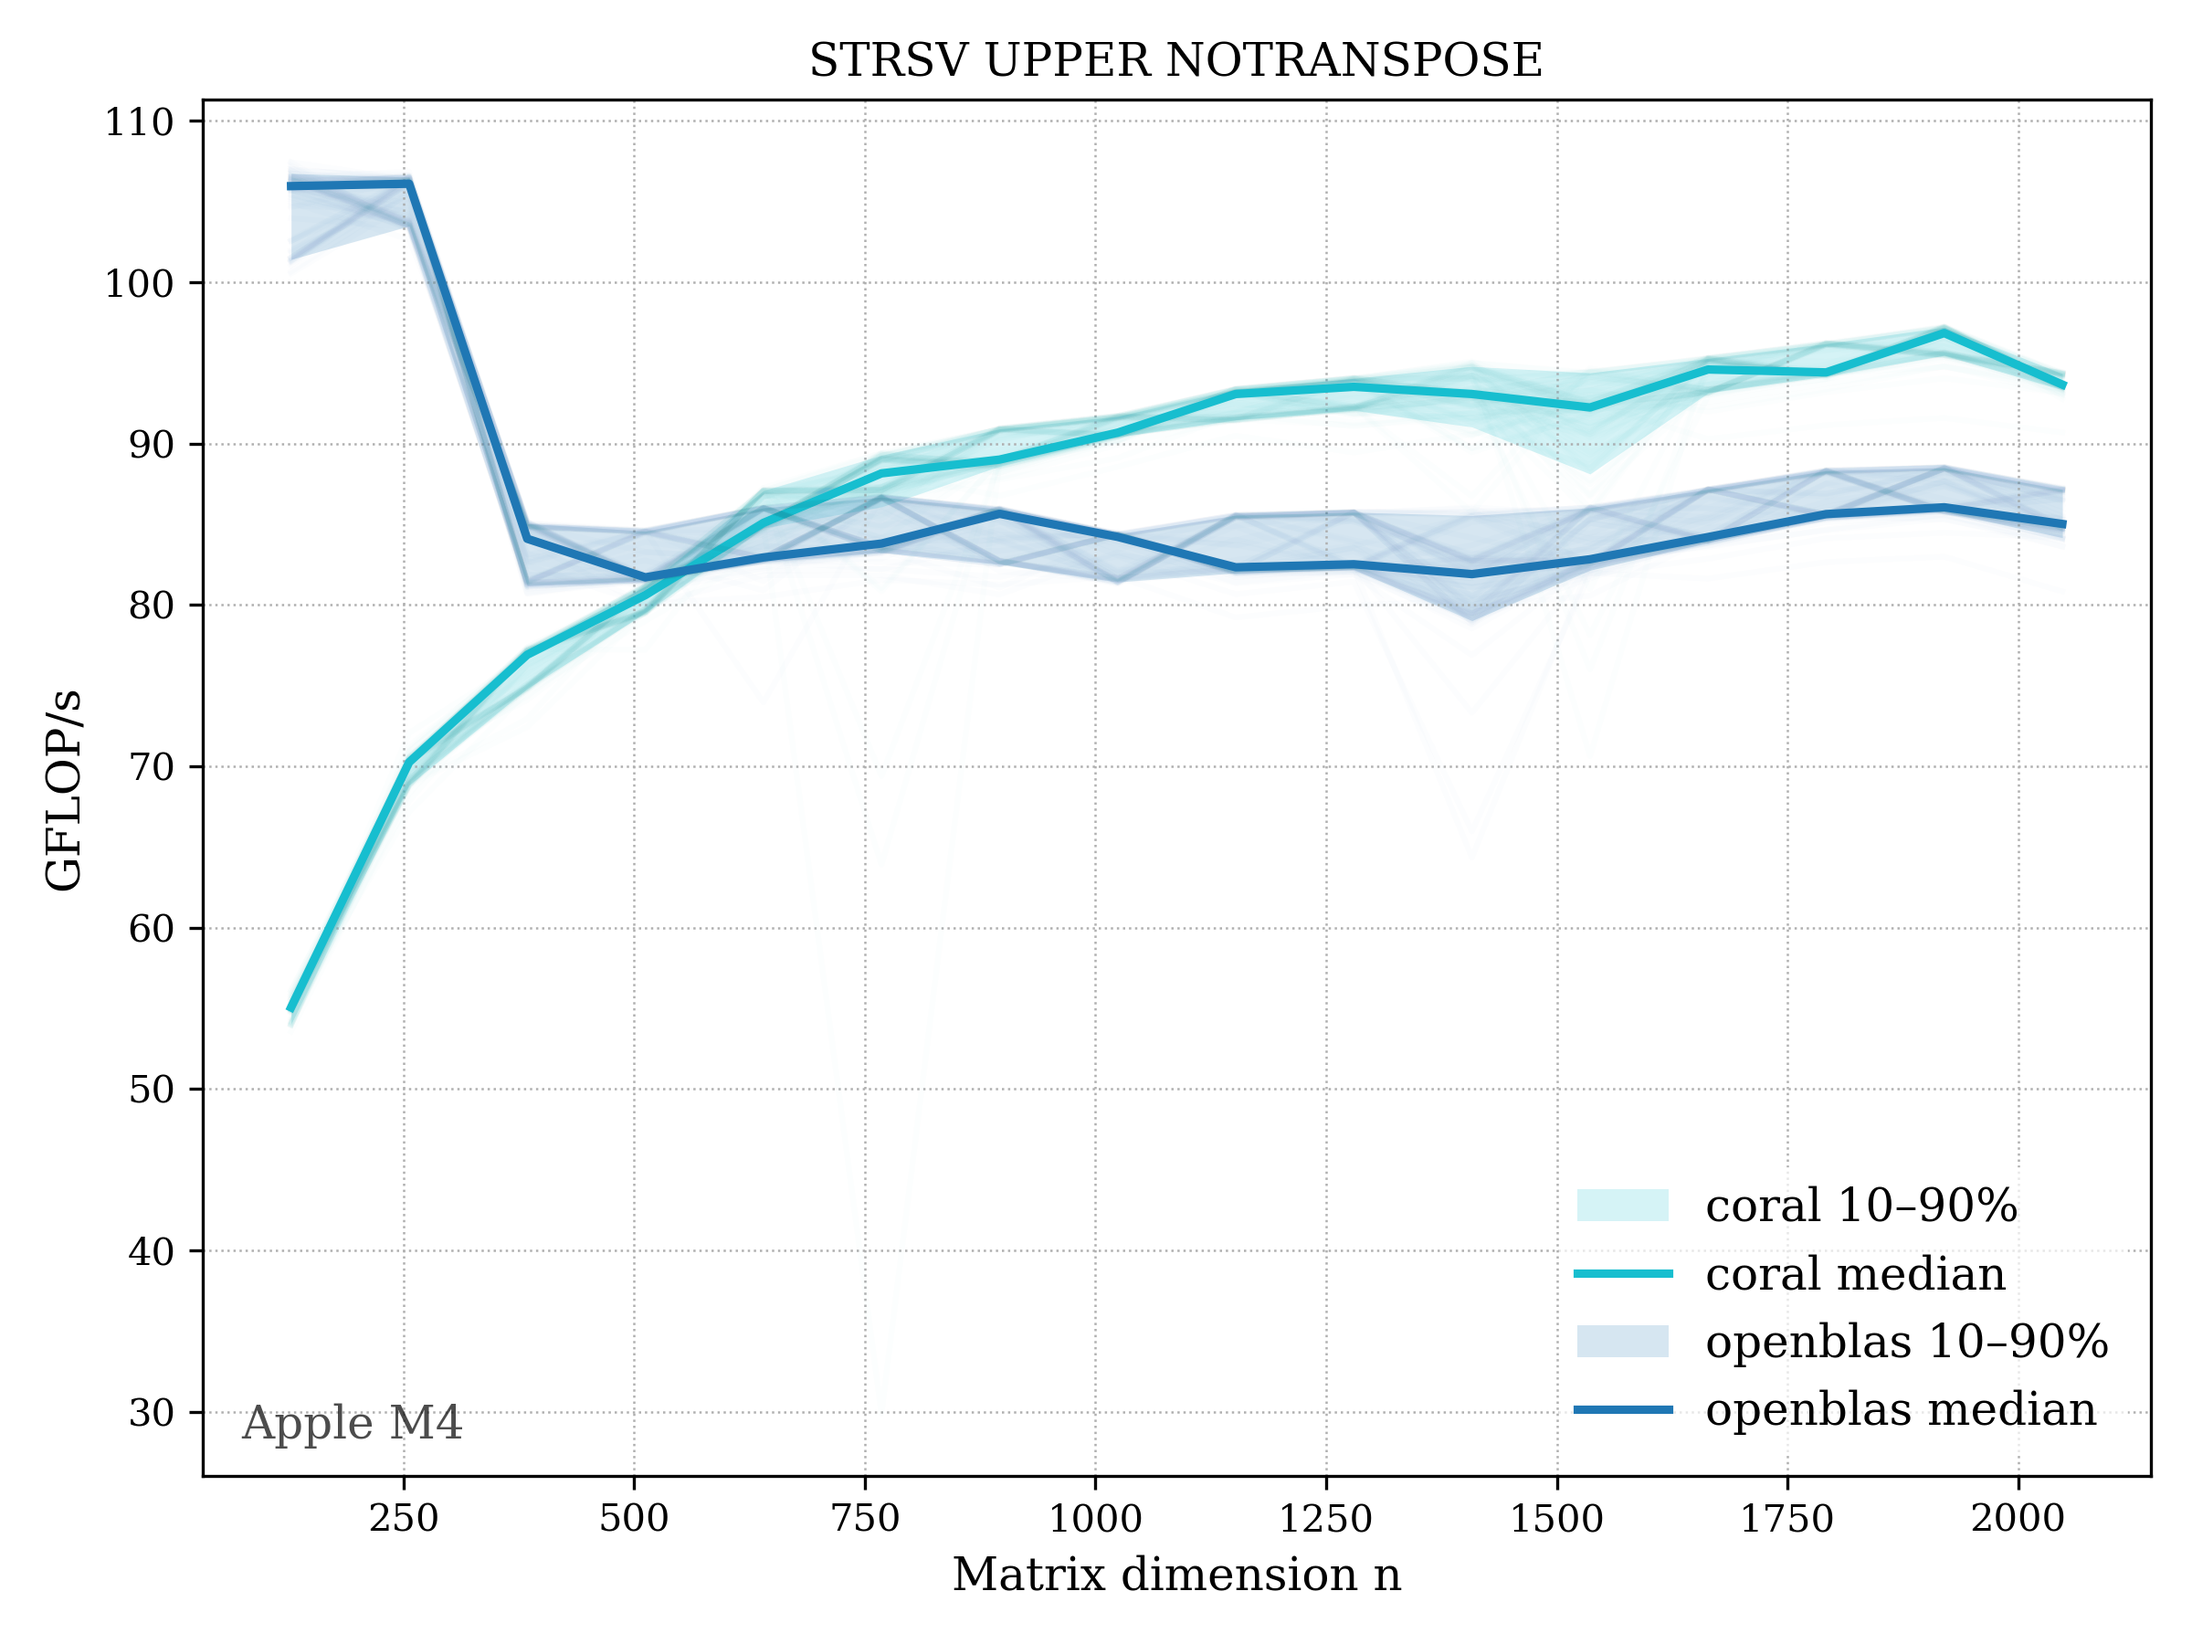
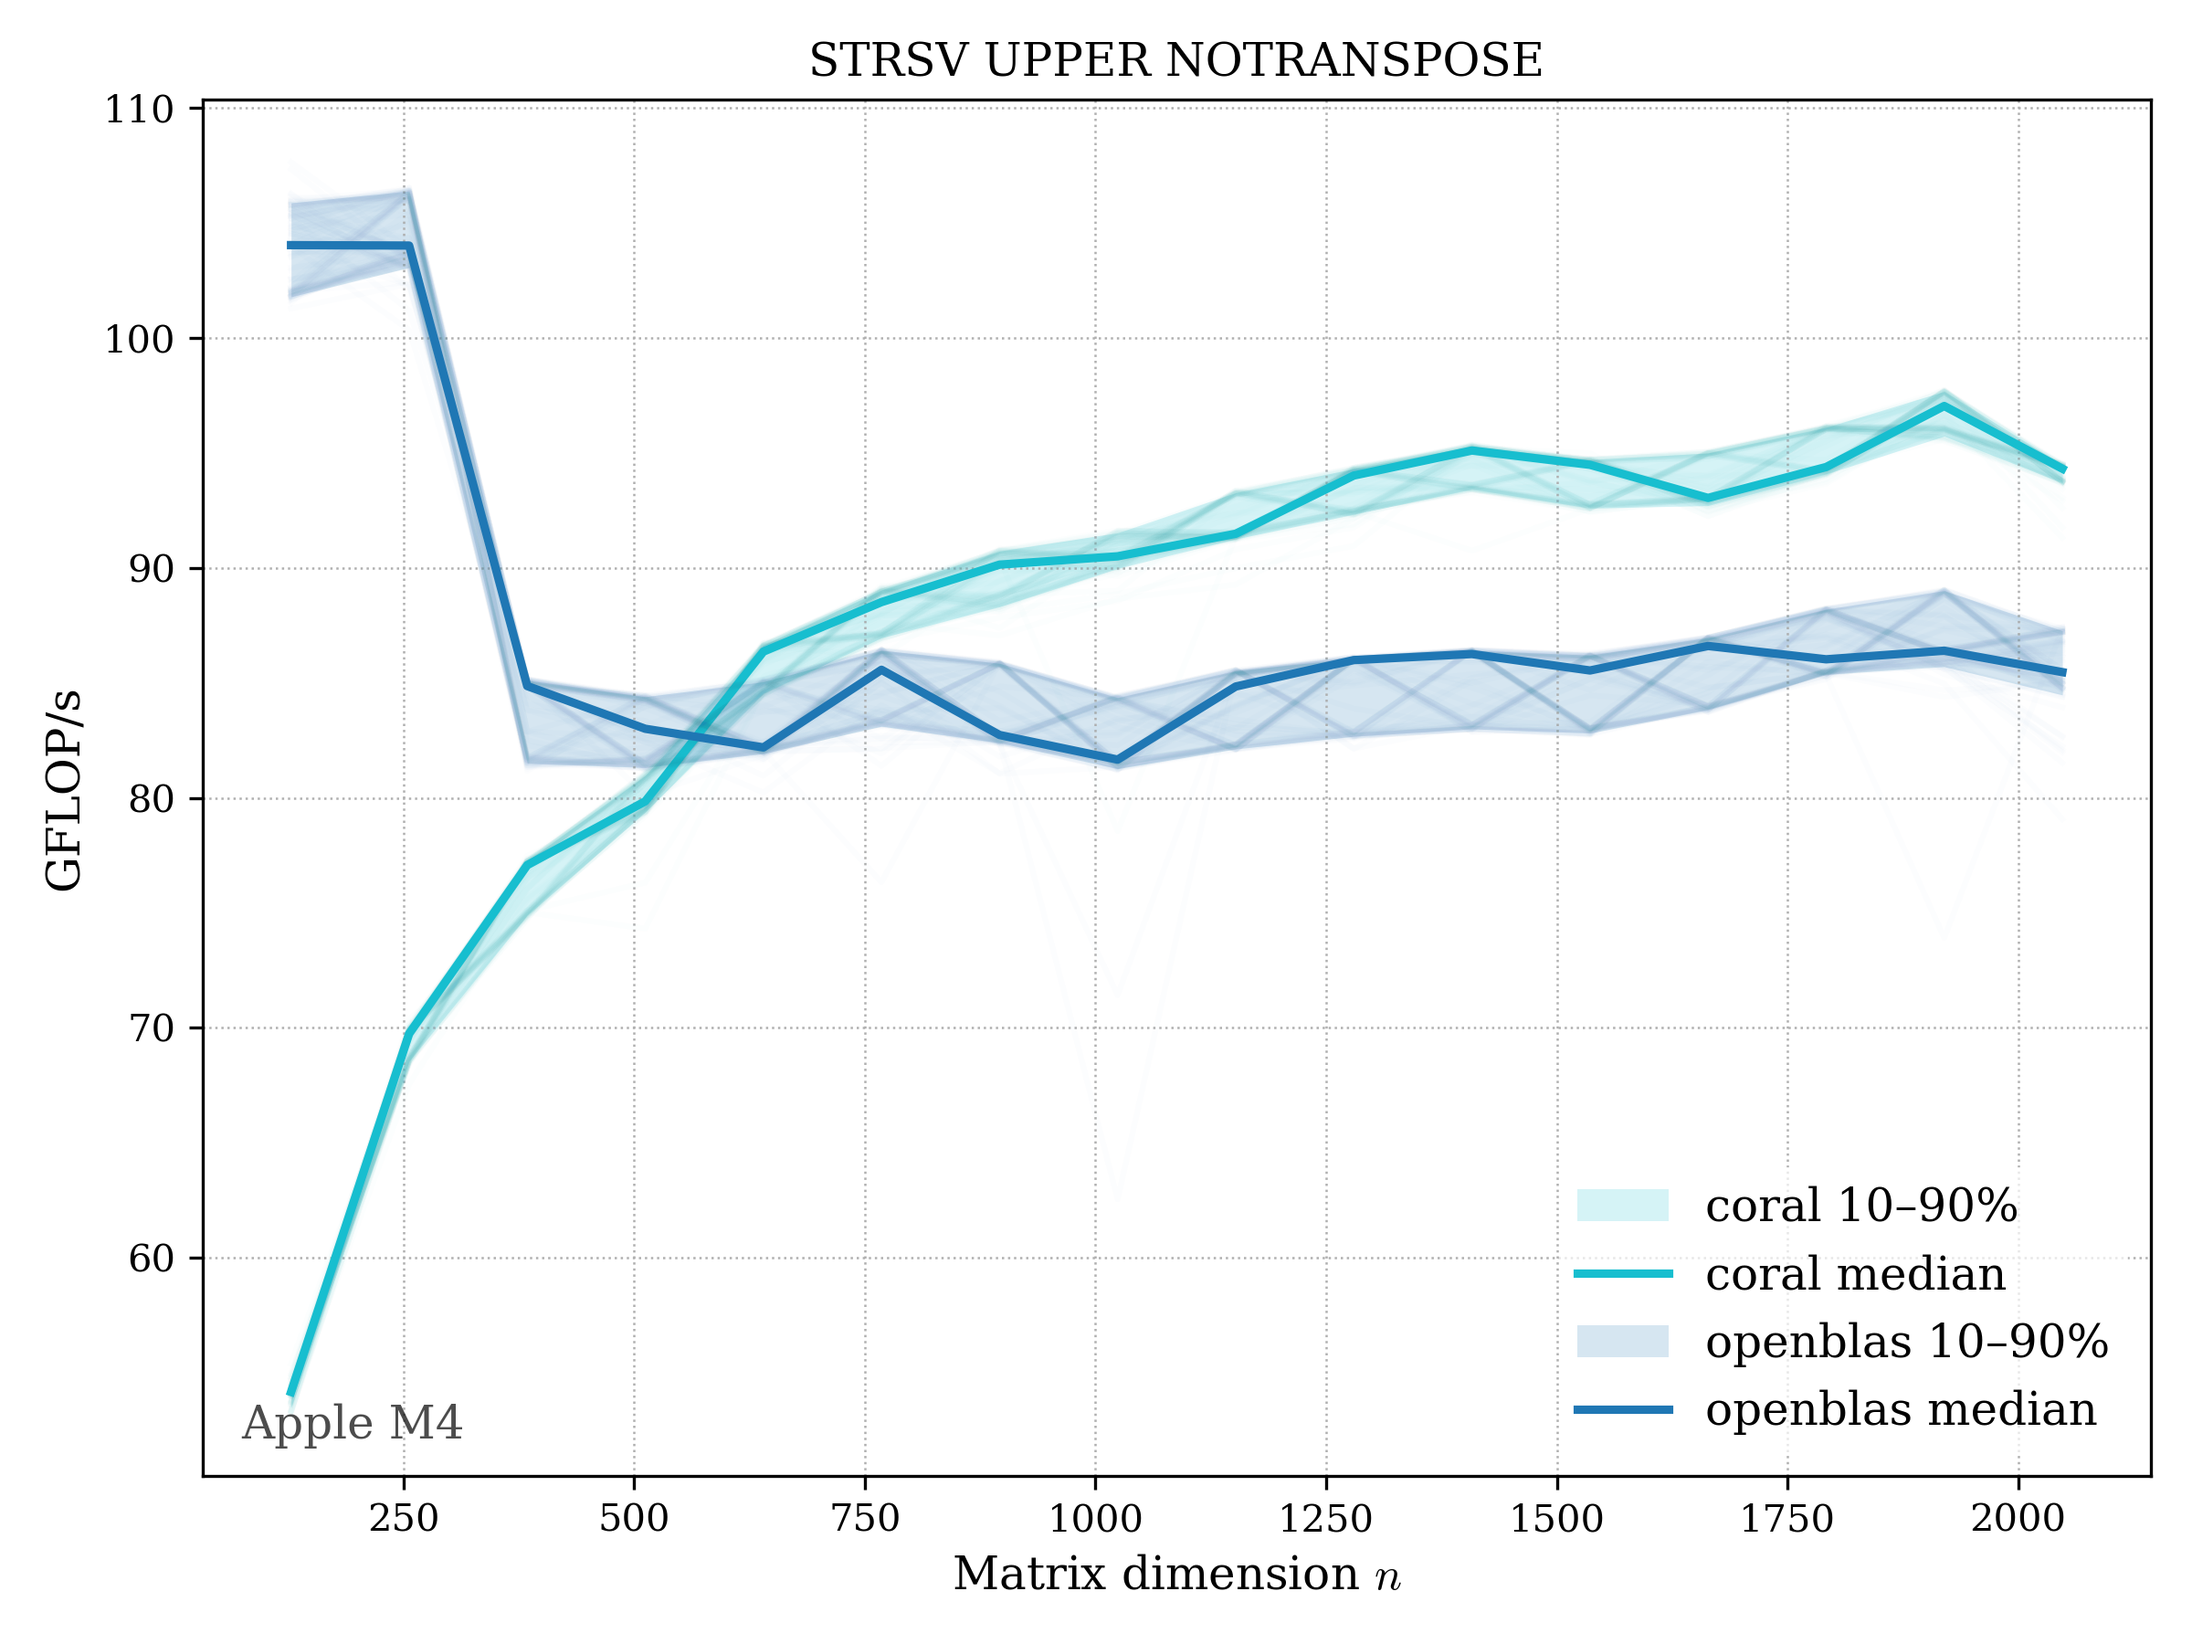
update microbench plots

diff --git a/benches/level2_strsv.rs b/benches/level2_strsv.rs
@@ -1,5 +1,5 @@
-use blas_src as _; 
-use criterion::{criterion_group, criterion_main, BatchSize, Criterion, black_box};
+use blas_src as _;
+use criterion::{criterion_group, criterion_main, BatchSize, Criterion, black_box, BenchmarkId};
 
 use coral::level2::{
     enums::{CoralTriangular, CoralTranspose, CoralDiagonal},
@@ -18,7 +18,6 @@ pub fn bench_strsv(c: &mut Criterion) {
     let n:   usize = 1024;
     let lda: usize = n + 8;
 
-    // upper-triangular with diagonal
     let matrix_upper = {
         let mut a = vec![0.0f32; lda * n];
         for j in 0..n {
@@ -29,7 +28,6 @@ pub fn bench_strsv(c: &mut Criterion) {
         a
     };
 
-    // lower-triangular with diagonal 
     let matrix_lower = {
         let mut a = vec![0.0f32; lda * n];
         for j in 0..n {
@@ -57,6 +55,7 @@ pub fn bench_strsv(c: &mut Criterion) {
                     black_box(x.as_mut_slice()),
                     black_box(1),
                 );
+                black_box(&*x);
             },
             BatchSize::SmallInput,
         );
@@ -78,6 +77,7 @@ pub fn bench_strsv(c: &mut Criterion) {
                     black_box(x.as_mut_ptr()),
                     black_box(1),
                 );
+                black_box(&*x);
             },
             BatchSize::SmallInput,
         );
@@ -98,12 +98,13 @@ pub fn bench_strsv(c: &mut Criterion) {
                     black_box(x.as_mut_slice()),
                     black_box(1),
                 );
+                black_box(&*x);
             },
             BatchSize::SmallInput,
         );
     });
 
-    // lower: cblas
+    // lower; cblas
     c.bench_function("blas_strsv_lower_notrans", |b| {
         b.iter_batched_ref(
             || x_init.clone(),
@@ -119,12 +120,137 @@ pub fn bench_strsv(c: &mut Criterion) {
                     black_box(x.as_mut_ptr()),
                     black_box(1),
                 );
+                black_box(&*x);
             },
             BatchSize::SmallInput,
         );
     });
 }
 
-criterion_group!(benches, bench_strsv);
+pub fn bench_strsv_n(c: &mut Criterion) {
+    let sizes: Vec<usize> = (128..=2048).step_by(128).collect();
+
+    // upper no trans
+    let mut group_u = c.benchmark_group("strsv_upper_notrans");
+    for &n in &sizes {
+        let lda = n + 8;
+
+        let matrix_upper = {
+            let mut a = vec![0.0f32; lda * n];
+            for j in 0..n {
+                for i in 0..=j {
+                    a[i + j * lda] = 1.0;
+                }
+            }
+            a
+        };
+
+        let x0 = vec![1.0f32; n];
+
+        group_u.bench_with_input(BenchmarkId::new("coral", n), &n, |b, &_n| {
+            b.iter_batched_ref(
+                || x0.clone(),
+                |x| {
+                    strsv(
+                        black_box(CoralTriangular::UpperTriangular),
+                        black_box(CoralTranspose::NoTranspose),
+                        black_box(CoralDiagonal::UnitDiagonal),
+                        black_box(n),
+                        black_box(&matrix_upper),
+                        black_box(lda),
+                        black_box(x.as_mut_slice()),
+                        black_box(1),
+                    );
+                    black_box(&*x);
+                },
+                BatchSize::SmallInput,
+            );
+        });
+
+        group_u.bench_with_input(BenchmarkId::new("blas", n), &n, |b, &_n| {
+            b.iter_batched_ref(
+                || x0.clone(),
+                |x| unsafe {
+                    cblas_strsv(
+                        black_box(CBLAS_LAYOUT::CblasColMajor),
+                        black_box(CBLAS_UPLO::CblasUpper),
+                        black_box(CBLAS_TRANSPOSE::CblasNoTrans),
+                        black_box(CBLAS_DIAG::CblasUnit),
+                        black_box(n as i32),
+                        black_box(matrix_upper.as_ptr()),
+                        black_box(lda as i32),
+                        black_box(x.as_mut_ptr()),
+                        black_box(1),
+                    );
+                    black_box(&*x);
+                },
+                BatchSize::SmallInput,
+            );
+        });
+    }
+    group_u.finish();
+
+    // lower no trans 
+    let mut group_l = c.benchmark_group("strsv_lower_notrans");
+    for &n in &sizes {
+        let lda = n + 8;
+
+        let matrix_lower = {
+            let mut a = vec![0.0f32; lda * n];
+            for j in 0..n {
+                for i in j..n {
+                    a[i + j * lda] = 1.0;
+                }
+            }
+            a
+        };
+
+        let x0 = vec![1.0f32; n];
+
+        group_l.bench_with_input(BenchmarkId::new("coral", n), &n, |b, &_n| {
+            b.iter_batched_ref(
+                || x0.clone(),
+                |x| {
+                    strsv(
+                        black_box(CoralTriangular::LowerTriangular),
+                        black_box(CoralTranspose::NoTranspose),
+                        black_box(CoralDiagonal::NonUnitDiagonal),
+                        black_box(n),
+                        black_box(&matrix_lower),
+                        black_box(lda),
+                        black_box(x.as_mut_slice()),
+                        black_box(1),
+                    );
+                    black_box(&*x);
+                },
+                BatchSize::SmallInput,
+            );
+        });
+
+        group_l.bench_with_input(BenchmarkId::new("blas", n), &n, |b, &_n| {
+            b.iter_batched_ref(
+                || x0.clone(),
+                |x| unsafe {
+                    cblas_strsv(
+                        black_box(CBLAS_LAYOUT::CblasColMajor),
+                        black_box(CBLAS_UPLO::CblasLower),
+                        black_box(CBLAS_TRANSPOSE::CblasNoTrans),
+                        black_box(CBLAS_DIAG::CblasNonUnit),
+                        black_box(n as i32),
+                        black_box(matrix_lower.as_ptr()),
+                        black_box(lda as i32),
+                        black_box(x.as_mut_ptr()),
+                        black_box(1),
+                    );
+                    black_box(&*x);
+                },
+                BatchSize::SmallInput,
+            );
+        });
+    }
+    group_l.finish();
+}
+
+criterion_group!(benches, bench_strsv, bench_strsv_n);
 criterion_main!(benches);
 

diff --git a/benches/level2_sgemv.rs b/benches/level2_sgemv.rs
@@ -1,5 +1,5 @@
 use blas_src as _; 
-use criterion::{criterion_group, criterion_main, BatchSize, Criterion, black_box};
+use criterion::{criterion_group, criterion_main, BatchSize, Criterion, black_box, BenchmarkId};
 
 use coral::level2::{
     enums::CoralTranspose, 
@@ -119,6 +119,129 @@ pub fn bench_sgemv(c: &mut Criterion) {
     });
 }
 
-criterion_group!(benches, bench_sgemv);
+
+pub fn bench_sgemv_n(c: &mut Criterion) {
+    let sizes: Vec<usize> = (128..=2048).step_by(128).collect();
+
+    let mut group = c.benchmark_group("sgemv_notrans");
+    for &n in &sizes {
+        let m = n;
+        let lda = m;
+
+        let alpha: f32 = 1.000123;
+        let beta:  f32 = 0.000321;
+
+        let matrix    = vec![1.0f32; lda * n];
+        let x_notrans = vec![1.0f32; n];
+        let y0        = vec![2.0f32; m];
+
+        group.bench_with_input(BenchmarkId::new("coral", n), &n, |b, &_n| {
+            b.iter_batched_ref(
+                || y0.clone(),
+                |y| {
+                    sgemv(
+                        black_box(CoralTranspose::NoTranspose),
+                        black_box(m),
+                        black_box(n),
+                        black_box(alpha),
+                        black_box(&matrix),
+                        black_box(lda),
+                        black_box(&x_notrans),
+                        black_box(1),
+                        black_box(beta),
+                        black_box(y.as_mut_slice()),
+                        black_box(1),
+                    );
+                },
+                BatchSize::SmallInput,
+            );
+        });
+
+        group.bench_with_input(BenchmarkId::new("blas", n), &n, |b, &_n| {
+            b.iter_batched_ref(
+                || y0.clone(),
+                |y| unsafe {
+                    cblas_sgemv(
+                        black_box(CBLAS_LAYOUT::CblasColMajor),
+                        black_box(CBLAS_TRANSPOSE::CblasNoTrans),
+                        black_box(m as i32),
+                        black_box(n as i32),
+                        black_box(alpha),
+                        black_box(matrix.as_ptr()),
+                        black_box(lda as i32),
+                        black_box(x_notrans.as_ptr()),
+                        black_box(1),
+                        black_box(beta),
+                        black_box(y.as_mut_ptr()),
+                        black_box(1),
+                    );
+                },
+                BatchSize::SmallInput,
+            );
+        });
+    }
+    group.finish();
+
+    let mut group_t = c.benchmark_group("sgemv_trans");
+    for &n in &sizes {
+        let m = n;
+        let lda = m;
+
+        let alpha: f32 = 1.000123;
+        let beta:  f32 = 0.000321;
+
+        let matrix = vec![1.0f32; lda * n];
+        let x_trans = vec![1.0f32; m];
+        let y0      = vec![2.0f32; n];
+
+        group_t.bench_with_input(BenchmarkId::new("coral", n), &n, |b, &_n| {
+            b.iter_batched_ref(
+                || y0.clone(),
+                |y| {
+                    sgemv(
+                        black_box(CoralTranspose::Transpose),
+                        black_box(m),
+                        black_box(n),
+                        black_box(alpha),
+                        black_box(&matrix),
+                        black_box(lda),
+                        black_box(&x_trans),
+                        black_box(1),
+                        black_box(beta),
+                        black_box(y.as_mut_slice()),
+                        black_box(1),
+                    );
+                },
+                BatchSize::SmallInput,
+            );
+        });
+
+        group_t.bench_with_input(BenchmarkId::new("blas", n), &n, |b, &_n| {
+            b.iter_batched_ref(
+                || y0.clone(),
+                |y| unsafe {
+                    cblas_sgemv(
+                        black_box(CBLAS_LAYOUT::CblasColMajor),
+                        black_box(CBLAS_TRANSPOSE::CblasTrans),
+                        black_box(m as i32),
+                        black_box(n as i32),
+                        black_box(alpha),
+                        black_box(matrix.as_ptr()),
+                        black_box(lda as i32),
+                        black_box(x_trans.as_ptr()),
+                        black_box(1),
+                        black_box(beta),
+                        black_box(y.as_mut_ptr()),
+                        black_box(1),
+                    );
+                },
+                BatchSize::SmallInput,
+            );
+        });
+    }
+    group_t.finish();
+}
+
+criterion_group!(benches, bench_sgemv, bench_sgemv_n);
 criterion_main!(benches);
 
